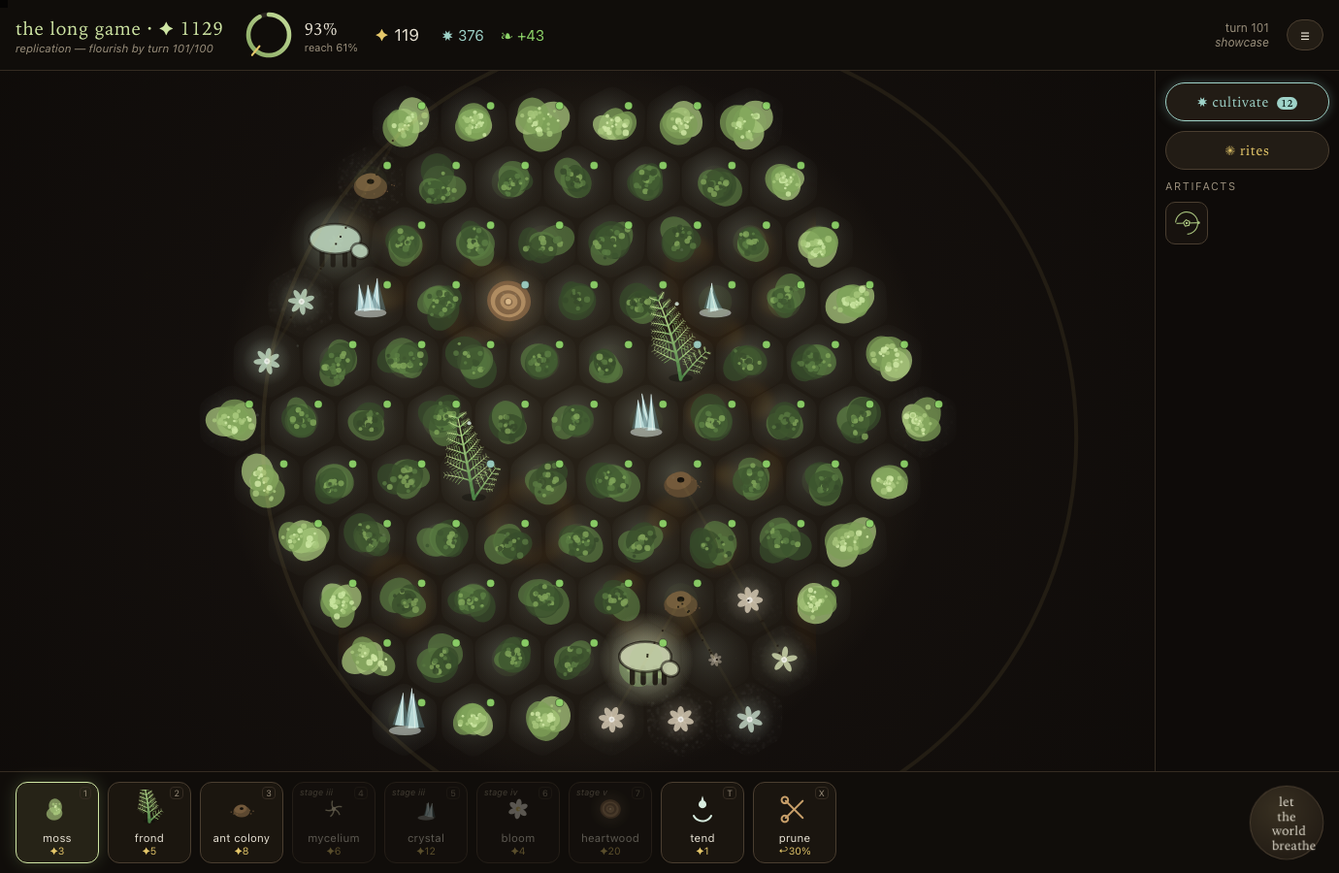
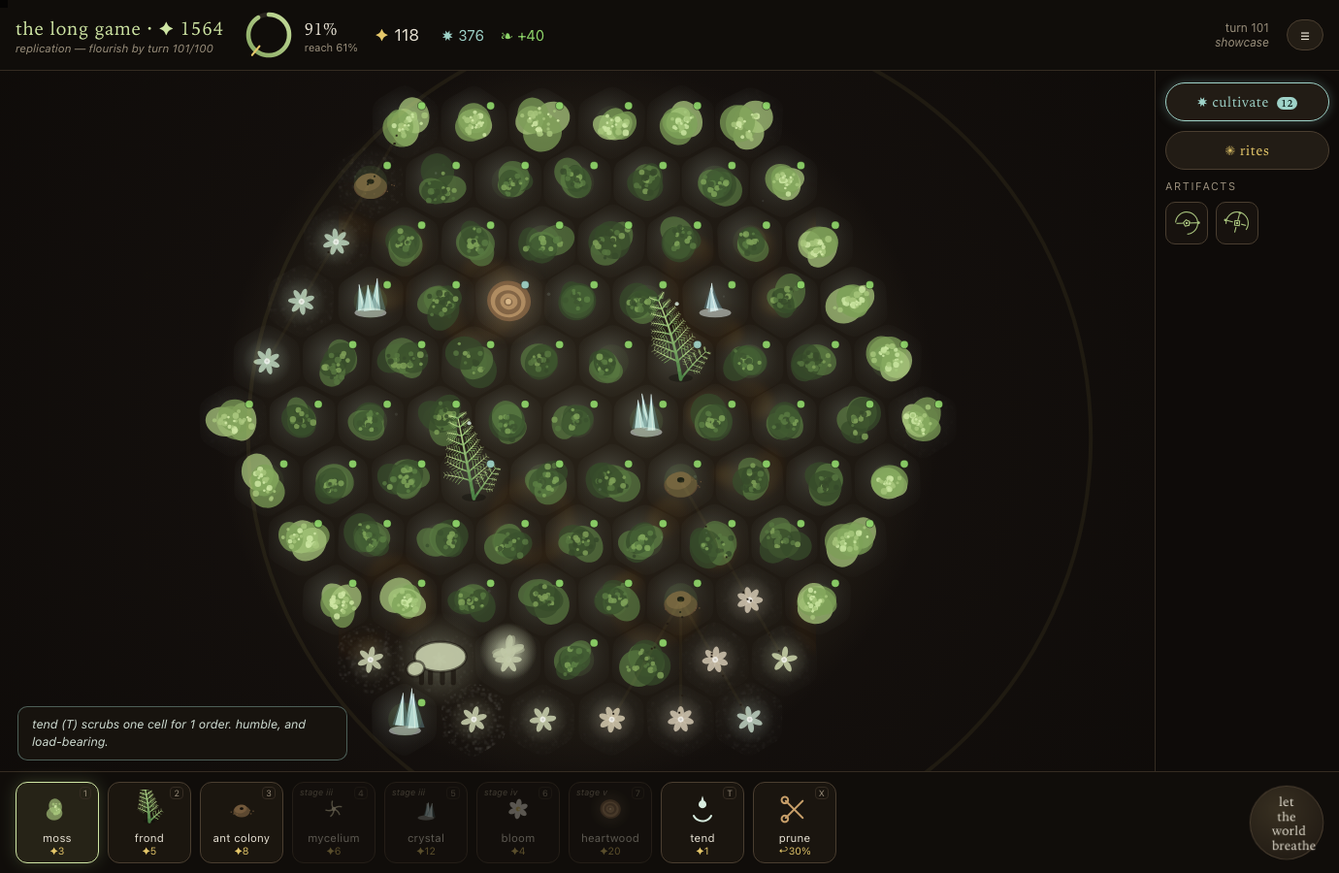
food web I: the pollinator — Margulis-first mutualism (+ prime directive)
The first slice of the food-web arc, grounded in the game's own murmur:
"life did not take over the globe by combat, but by networking" (Margulis).
So the web leads with the MUTUALIST, not the predator.

A meadow that grows both rich AND varied now summons, by succession, a
POLLINATOR (a consumer/grazer comes first; a pollinator network is the mature
meadow's reward). It sips nectar — never kills — and carries a flower's kind
into open ground. Positive-sum, measured: a pollinated meadow ends ~3.6x richer
in flora than the same world grazed. Nectar requires primary production (only a
FED flower makes it), so the mutualism is a powerful buffer yet still coupled to
the base. Pollinators render as airy luminous motes, the opposite of the heavy
grazer; arrival toast explains the relationship plainly.

Also rewrote the trophic-cascade test around the MEASURED three-part truth
(found via a long-run probe): pull the base and the meadow (1) RELAXES from its
subsidised bloom (Prigogine), (2) its whole flow-dependent web — metabolism AND
fauna — unwinds to zero (real coupling), (3) leaving a fossil scaffold of
niche-built beds on habitat-memory alone (hysteresis — a coral skeleton).

Invariants held: base garden 24/24 & fauna-free, deterministic (role survives
save/load), non-collapse. Harness 39 PASS. New guards lock in pollinator
emergence + positive-sum mutualism. Prime-directive manifesto + closure probe
added as the loop's compass and an investigation tool.

diff --git a/loophole/js/core.js b/loophole/js/core.js
@@ -113,6 +113,11 @@
      flower at a time (donor-controlled — no annihilation), the non-collapsing predator-prey
      of the foundations doc. fauna are mobile agents (a separate list), not rooted patterns. */
   const FAUNA_SUF = ['grazer', 'strider', 'aurochs', 'elk', 'roan', 'lumberer', 'browser', 'wallow', 'horn', 'pacer'];
+  /* a meadow rich AND varied enough summons not a consumer but a MUTUALIST — a pollinator that
+     feeds on nectar and, in the same visit, carries a flower's kind into open ground. Margulis:
+     "life did not take over the globe by combat, but by networking." the food web's positive-sum
+     half — these are airy, light names, never the heavy grazer ones. */
+  const FAUNA_POLLEN_SUF = ['drifter', 'sipper', 'flitter', 'mote', 'wisp', 'dancer', 'hummer', 'flutter'];
 
   /* ───────────────────────── game ───────────────────────── */
   class Game {
@@ -557,7 +562,7 @@
     /* ── megafauna: a rich meadow summons a beast that grazes it and depends on it ── */
     _fauna(ev) {
       if (this.mode !== 'longgame') return;
-      const FA_THRESH = 8, FA_SUSTAIN = 4, FA_SP_CAP = 4, FA_CAP = 8, STARVE = 14, BREED = 16, GRAZE_NEED = 4, REFUGE = 6;
+      const FA_THRESH = 8, FA_SUSTAIN = 4, FA_SP_CAP = 4, FA_CAP = 8, STARVE = 14, BREED = 16, GRAZE_NEED = 4, REFUGE = 6, FLORA_CAP = 60, POLLEN = 0.5;
       const floraCount = this._patternCells('flora').length; /* a refuge: beasts won't graze the meadow below this — the prey is never eaten to nothing */
       const estFlora = this._patternCells('flora').filter(c => c.pat.est);
       /* 1. a rich, diverse meadow (much established flora, ≥2 species) is a surplus of LIFE */
@@ -573,20 +578,41 @@
         f.age++; f.hunger++;
         let best = null, bestD = 1e9;
         for (const c of this._patternCells('flora')) {
-          const d = HEX.dist2(f.q, f.r, c.q, c.r) - (c.pat.sp === sp.diet ? 0.5 : 0);
+          const d = HEX.dist2(f.q, f.r, c.q, c.r) - (c.pat.sp === sp.diet ? 0.5 : 0) - (sp.role === 'pollinator' && c.pat.fedOk ? 0.6 : 0); /* a pollinator seeks nectar — a FED flower */
           if (d < bestD) { bestD = d; best = c; }
         }
         if (best && HEX.dist2(f.q, f.r, best.q, best.r) <= 1) {
-          /* at the meadow. it grazes only when HUNGRY — eats to satiety then rests — so the
-             meadow can keep up. one flower at a time (donor-controlled), no annihilation. */
-          if (f.hunger >= GRAZE_NEED && floraCount > REFUGE) {
-            this._killFlora(best); f.hunger = 0; f.fedRun = (f.fedRun || 0) + 1;
-            best.e = U.clamp(best.e + 0.05, 0, 1); /* droppings → humus, fertilising the cycle */
-            ev.push({ t: 'graze', k: HEX.key(best.q, best.r), color: sp.color });
-            if (f.fedRun >= BREED && this.fauna.length < FA_CAP) {
-              const bn = [...HEX.neighborsK(HEX.key(f.q, f.r))].filter(k => this.cells.has(k)).map(k => HEX.parse(k));
-              const bp = bn.length ? bn[this.rng.i(bn.length)] : [f.q, f.r]; /* the calf is born beside its parent, not on top of it */
-              this.fauna.push({ spId: f.spId, q: bp[0], r: bp[1], age: 0, hunger: 0, fedRun: 0 }); f.fedRun = 0; ev.push({ t: 'faunaBreed', k: HEX.key(f.q, f.r), color: sp.color });
+          if (sp.role === 'pollinator') {
+            /* a MUTUALIST (Margulis: "life took over by networking, not combat"): it sips nectar —
+               NEVER kills the flower — and in the same visit carries that flower's kind into open
+               ground. positive-sum: the meadow it feeds on grows BECAUSE of it. no prey refuge —
+               there is no prey. but NECTAR IS A PRODUCT OF PRIMARY PRODUCTION: only a FED flower
+               makes it, so the mutualism is a powerful buffer yet still, at the last, tied to the
+               base — pull every producer and the web unwinds with a long lag, not never. */
+            if (f.hunger >= GRAZE_NEED && best.pat.fedOk) {
+              f.hunger = 0; f.fedRun = (f.fedRun || 0) + 1;
+              best.e = U.clamp(best.e + 0.03, 0, 1); /* a lighter touch than a grazer's droppings */
+              const fsp = this.species.get(best.pat.sp);
+              if (fsp && floraCount < FLORA_CAP && this.rng.chance(POLLEN)) this._floraSpread(best, fsp, ev); /* pollination → a new flower of the kind it visited */
+              ev.push({ t: 'pollinate', k: HEX.key(best.q, best.r), color: sp.color });
+              if (f.fedRun >= BREED && this.fauna.length < FA_CAP) {
+                const bn = [...HEX.neighborsK(HEX.key(f.q, f.r))].filter(k => this.cells.has(k)).map(k => HEX.parse(k));
+                const bp = bn.length ? bn[this.rng.i(bn.length)] : [f.q, f.r];
+                this.fauna.push({ spId: f.spId, q: bp[0], r: bp[1], age: 0, hunger: 0, fedRun: 0 }); f.fedRun = 0; ev.push({ t: 'faunaBreed', k: HEX.key(f.q, f.r), color: sp.color });
+              }
+            }
+          } else {
+            /* a GRAZER: eats only when HUNGRY — to satiety then rests — so the meadow can keep up.
+               one flower at a time (donor-controlled), never below the prey REFUGE. no annihilation. */
+            if (f.hunger >= GRAZE_NEED && floraCount > REFUGE) {
+              this._killFlora(best); f.hunger = 0; f.fedRun = (f.fedRun || 0) + 1;
+              best.e = U.clamp(best.e + 0.05, 0, 1); /* droppings → humus, fertilising the cycle */
+              ev.push({ t: 'graze', k: HEX.key(best.q, best.r), color: sp.color });
+              if (f.fedRun >= BREED && this.fauna.length < FA_CAP) {
+                const bn = [...HEX.neighborsK(HEX.key(f.q, f.r))].filter(k => this.cells.has(k)).map(k => HEX.parse(k));
+                const bp = bn.length ? bn[this.rng.i(bn.length)] : [f.q, f.r]; /* the calf is born beside its parent, not on top of it */
+                this.fauna.push({ spId: f.spId, q: bp[0], r: bp[1], age: 0, hunger: 0, fedRun: 0 }); f.fedRun = 0; ev.push({ t: 'faunaBreed', k: HEX.key(f.q, f.r), color: sp.color });
+              }
             }
           }
         } else if (best) {
@@ -618,12 +644,20 @@
       for (const s in count) if (count[s] > mx) { mx = count[s]; dietSp = +s; }
       const floraSp = this.species.get(dietSp);
       const ch = floraSp ? floraSp.ch : 0;
-      const name = FLORA_PRE[ch][this.rng.i(FLORA_PRE[ch].length)] + FAUNA_SUF[this.rng.i(FAUNA_SUF.length)];
-      const sp = { id, diet: dietSp, ch, color: floraSp ? floraSp.color : '#d8c0a8', name, born: this.turn, seeded: true };
+      /* the ROLE follows ecological SUCCESSION: a CONSUMER (grazer) finds the easy biomass first,
+         but a pollinator NETWORK is the mark of a mature, varied meadow (Margulis: networking is
+         the advanced achievement, not the starting move). so the first beast is always a grazer,
+         and a mutualist arrives only once the meadow is both diverse (≥3 species) AND already has
+         a grazing layer — the variety it tends is something the meadow had to earn. */
+      const div = new Set(estFlora.map(c => c.pat.sp)).size;
+      const role = (div >= 3 && this.faunaSpecies.size >= 1) ? 'pollinator' : 'grazer';
+      const suf = role === 'pollinator' ? FAUNA_POLLEN_SUF : FAUNA_SUF;
+      const name = FLORA_PRE[ch][this.rng.i(FLORA_PRE[ch].length)] + suf[this.rng.i(suf.length)];
+      const sp = { id, diet: dietSp, ch, role, color: floraSp ? floraSp.color : '#d8c0a8', name, born: this.turn, seeded: true };
       this.faunaSpecies.set(id, sp);
       const spot = estFlora.find(c => c.pat.sp === dietSp) || estFlora[0];
       this.fauna.push({ spId: id, q: spot.q, r: spot.r, age: 0, hunger: 0, fedRun: 0 });
-      ev.push({ t: 'fauna', name, color: sp.color, k: HEX.key(spot.q, spot.r), eats: floraSp ? floraSp.name : 'wildflowers' });
+      ev.push({ t: 'fauna', name, role, color: sp.color, k: HEX.key(spot.q, spot.r), eats: floraSp ? floraSp.name : 'wildflowers' });
     }
     _stepToward(q, r, tq, tr, avoid) {
       let best = { q, r }, bestD = HEX.dist2(q, r, tq, tr);

diff --git a/loophole/test/harness.js b/loophole/test/harness.js
@@ -508,15 +508,52 @@ function main() {
     while (fgarden.over === false && fgarden.turn < 50) { if (fgarden.stage === 6 && fgarden.coalesceReady() && fgarden.beginCoalescence().ok) break; greedyTurn(fgarden); }
     ok(fgarden.fauna.length === 0 && fgarden.faunaSpecies.size === 0, 'base garden mode stays free of megafauna');
 
-    /* TROPHIC CASCADE & RESILIENCE: pull the base (every producer) and watch what's genuinely
-       COUPLED to the flow collapse — while what has built its own habitat endures. The pioneer
-       flora live turn-to-turn on the element surplus; with the surplus gone they die back and NO
-       new species can speciate (zero surplus → zero niches). The ecology shrinks to its core.
-       But an ESTABLISHED bed is a dissipative structure with memory: niche construction
-       (Holland / Odling-Smee) holds its own microclimate, and its excretion is a small
-       autocatalytic loop (Kauffman) — so the core, and the herd grazing it, show HYSTERESIS:
-       multiple stable states, the system remembers it was once rich. That resilience is a real
-       complex-systems property, not a decoration — so we report it rather than assert against it. */
+    /* THE FOOD WEB → MUTUALISM (Margulis: "life took over by networking, not combat"). A meadow
+       that grows both rich AND varied summons not only grazers (consumers) but POLLINATORS — a
+       mutualist that sips nectar without killing and carries a flower's kind into open ground.
+       Two claims: (1) both roles emerge by succession (consumer first, mutualist as the mature
+       meadow's reward); (2) the mutualism is POSITIVE-SUM — a pollinated meadow ends richer in
+       flora than the same world grazed, networking out-producing combat. */
+    {
+      const seedRoles = s => {
+        const g = new Game('web-' + s, { mode: 'longgame' });
+        cellsOf(g).filter(c => (Math.abs(c.q) + Math.abs(c.r) + Math.abs(c.q + c.r)) / 2 <= 6)
+          .forEach((c, i) => { if (i % 7 === 0) c.pat = g._mkPat('moss'); else if (i % 11 === 4) c.pat = g._mkPat('ant'); else if (i % 13 === 6) c.pat = g._mkPat('crys'); });
+        g._recompute();
+        for (let t = 0; t < 95 && !g.over; t++) { g.order += 12; g.endTurn(); }
+        return [...g.faunaSpecies.values()].map(sp => sp.role);
+      };
+      let pol = 0, grz = 0; const N = 10;
+      for (let s = 0; s < N; s++) { const r = seedRoles(s); if (r.includes('pollinator')) pol++; if (r.includes('grazer')) grz++; }
+      const mutual = forceRole => {
+        const g = new Game('web-mutual', { mode: 'longgame' });
+        cellsOf(g).filter(c => (Math.abs(c.q) + Math.abs(c.r) + Math.abs(c.q + c.r)) / 2 <= 6)
+          .forEach((c, i) => { if (i % 7 === 0) c.pat = g._mkPat('moss'); else if (i % 11 === 4) c.pat = g._mkPat('ant'); else if (i % 13 === 6) c.pat = g._mkPat('crys'); });
+        g._recompute();
+        const orig = g._speciateFauna.bind(g);
+        g._speciateFauna = (est, ev) => { orig(est, ev); for (const sp of g.faunaSpecies.values()) sp.role = forceRole; };
+        for (let t = 0; t < 120; t++) { g.over = false; g.turn = Math.min(g.turn, 90); g.order += 12; g.endTurn(); }
+        return cellsOf(g).filter(c => c.pat && c.pat.t === 'flora').length;
+      };
+      const polFlora = mutual('pollinator'), grzFlora = mutual('grazer');
+      console.log(`    food web: roles by succession — grazers ${grz}/${N}, pollinators ${pol}/${N} · positive-sum: pollinated meadow ${polFlora} flora vs grazed ${grzFlora}`);
+      ok(grz >= N - 1 && pol >= Math.ceil(N / 2), 'both roles emerge — a consumer first, a mutualist as the varied meadow earns it', `grazers ${grz}/${N}, pollinators ${pol}/${N}`);
+      ok(polFlora > grzFlora, 'mutualism is POSITIVE-SUM — networking out-produces combat (Margulis)', `pollinated ${polFlora} > grazed ${grzFlora} flora`);
+    }
+
+    /* TROPHIC CASCADE → the measured three-part truth. Pull the base (every producer) and:
+         1. RELAXATION (Prigogine): a brief bloom, then a long decline. The biomass the abiotic
+            base was SUBSIDISING is shed — flora falls well below its supported peak.
+         2. COUPLING: the entire FLOW-DEPENDENT web unwinds. With no production there is no food
+            and no nectar, so every FED flora and every beast (grazer and pollinator alike) dies
+            off — metabolism and fauna both reach ZERO. The living layer is genuinely coupled to
+            the base; it is not decoration.
+         3. HYSTERESIS: yet it does not all vanish. A small FOSSIL SCAFFOLD of established beds
+            persists on niche-construction MEMORY alone (Holland/Odling-Smee) — held above zero
+            for 175+ turns in the long probe (see _closure_probe.js) — like a coral skeleton after
+            the polyps. Habitat the life built, outliving the life. (An earlier all-pollinator
+            regime showed false autocatalytic closure; realistic grazer-first succession unwinds it.)
+       We must run PAST the long-game turn-100 end to watch this, so the probe neutralises it. */
     {
       const g = new Game('cascade-1', { mode: 'longgame' });
       const hd = c => (Math.abs(c.q) + Math.abs(c.r) + Math.abs(c.q + c.r)) / 2;
@@ -524,13 +561,18 @@ function main() {
       g._recompute();
       for (let t = 0; t < 85 && g.over === false; t++) { g.order += 12; g.endTurn(); }
       const floraB = cellsOf(g).filter(c => c.pat && c.pat.t === 'flora').length, faunaB = g.fauna.length, spB = g.species.size;
+      const floraN = () => cellsOf(g).filter(c => c.pat && c.pat.t === 'flora').length;
+      const fedN = () => cellsOf(g).filter(c => c.pat && c.pat.t === 'flora' && c.pat.fedOk).length;
+      const pump = n => { for (let t = 0; t < n; t++) { g.over = false; g.turn = Math.min(g.turn, 90); g.order += 12; g.endTurn(); } }; /* run past the turn-100 end to see the true long-run trend */
       for (const c of g.cells.values()) if (c.pat && (c.pat.t === 'moss' || c.pat.t === 'crys' || c.pat.t === 'ant')) c.pat = null; /* pull the base */
       g._recompute();
-      for (let t = 0; t < 65 && g.over === false; t++) { g.order += 12; g.endTurn(); }
-      const floraA = cellsOf(g).filter(c => c.pat && c.pat.t === 'flora').length, faunaA = g.fauna.length;
-      console.log(`    trophic cascade: pull the base → flora ${floraB}→${floraA} (the flow-dependent layer dies back), fauna ${faunaB}→${faunaA} & est. core endure — HYSTERESIS, the meadow remembers it was rich`);
+      pump(25); const floraPeak = floraN(); /* the overshoot bloom */
+      pump(200); const floraEnd = floraN(), fedEnd = fedN(), faunaEnd = g.fauna.length; /* the settled state */
+      console.log(`    trophic cascade: pull the base → bloom to ${floraPeak} flora, then RELAX to ${floraEnd} (Prigogine). the flow-dependent web fully unwinds — ${fedEnd} fed flora, ${faunaEnd} fauna — leaving a fossil scaffold of ${floraEnd} niche-built beds on habitat-memory alone (hysteresis). from ${floraB} pre-pull, fauna ${faunaB}`);
       ok(faunaB >= 1 && spB >= 1, 'the cascade test grew a real ecology first', `flora ${floraB} fauna ${faunaB} species ${spB}`);
-      ok(floraA < floraB, 'pull the producers and the flow-dependent flora collapse — that layer IS coupled to the base', `flora −${floraB - floraA}`);
+      ok(floraEnd < floraPeak * 0.7 && floraEnd < floraB, 'RELAXATION — pull the base and the subsidised biomass is shed (the meadow relaxes below its supported level)', `peak ${floraPeak} → settled ${floraEnd} (pre-pull ${floraB})`);
+      ok(fedEnd === 0 && faunaEnd === 0, 'COUPLING — the whole flow-dependent web (metabolism + fauna) unwinds to zero; the living layer IS coupled to the base', `fed ${fedEnd}, fauna ${faunaEnd}`);
+      ok(floraEnd >= 1, 'HYSTERESIS — a fossil scaffold of niche-built beds persists on habitat-memory alone (a coral skeleton after the polyps)', `${floraEnd} inert beds`);
     }
   }
 

diff --git a/loophole/js/render.js b/loophole/js/render.js
@@ -520,6 +520,7 @@
     _drawFauna(cx, f, sp) {
       const k = HEX.key(f.q, f.r), p = this.pos.get(k); if (!p) return;
       const col = (sp && sp.color) || '#d8c0a8';
+      if (sp && sp.role === 'pollinator') return this._drawPollinator(cx, p, f, col); /* a mutualist reads airy & luminous — the opposite of a heavy grazer */
       const s = this.s * 1.25, dir = (f.q + f.r) % 2 ? 1 : -1; /* megafauna are LARGE — bigger than any flower */
       cx.save();
       cx.translate(p.x, p.y); cx.scale(dir, 1);
@@ -533,6 +534,27 @@
       cx.beginPath(); cx.ellipse(-s * 0.02, -s * 0.06, s * 0.52, s * 0.30, 0, 0, TAU); cx.fill(); cx.stroke(); /* body, outlined to stand out */
       cx.beginPath(); cx.ellipse(s * 0.48, s * 0.18, s * 0.18, s * 0.15, 0.3, 0, TAU); cx.fill(); cx.stroke(); /* head, dipped to graze */
       cx.fillStyle = rgba('#fff', 0.5); cx.beginPath(); cx.arc(s * 0.52, s * 0.13, s * 0.03, 0, TAU); cx.fill(); /* eye */
+      cx.restore();
+    }
+
+    /* a pollinator — a small luminous mote that hovers ABOVE the meadow on shimmering wings, in
+       its diet's colour. light where the grazer is heavy; it spreads life rather than eating it. */
+    _drawPollinator(cx, p, f, col) {
+      const s = this.s * 0.9;
+      const ph = (((f.q * 5 + f.r * 3 + f.age * 2) % 16) / 16) * TAU; /* deterministic flutter phase from position+age (no RNG) */
+      cx.save();
+      cx.translate(p.x, p.y - s * 0.24); /* it floats, lifted off the ground */
+      const g = cx.createRadialGradient(0, 0, 0, 0, 0, s * 0.8);
+      g.addColorStop(0, rgba(col, 0.5)); g.addColorStop(0.5, rgba(col, 0.16)); g.addColorStop(1, rgba(col, 0));
+      cx.fillStyle = g; cx.beginPath(); cx.arc(0, 0, s * 0.8, 0, TAU); cx.fill(); /* luminous halo */
+      cx.fillStyle = rgba(col, 0.5); /* four shimmering wing-petals, fanned by the flutter phase */
+      for (let i = 0; i < 4; i++) {
+        cx.save(); cx.rotate((i / 4) * TAU + (i % 2 ? 0.22 : -0.22) + Math.sin(ph) * 0.12);
+        cx.beginPath(); cx.ellipse(s * 0.24, 0, s * 0.22, s * 0.10, 0, 0, TAU); cx.fill();
+        cx.restore();
+      }
+      cx.fillStyle = rgba('#fff', 0.85); cx.beginPath(); cx.arc(0, 0, s * 0.11, 0, TAU); cx.fill(); /* bright core */
+      cx.fillStyle = rgba(col, 0.95); cx.beginPath(); cx.arc(0, 0, s * 0.075, 0, TAU); cx.fill();
       cx.restore();
     }
 
@@ -1146,6 +1168,7 @@
           /* megafauna: a grand burst when a beast arrives, a little puff where it grazes/breeds */
           case 'fauna': if (e.k) { this.burst(e.k, e.color, 16, 2.1); this.ring(e.k, e.color, 0.9); } break;
           case 'graze': if (e.k) this.burst(e.k, e.color, 3, 0.55); break;
+          case 'pollinate': if (e.k) { this.burst(e.k, e.color, 4, 0.5); this.ring(e.k, e.color, 0.5); } break; /* a bright airy puff — life carried, not taken */
           case 'faunaBreed': if (e.k) this.burst(e.k, e.color, 5, 0.8); break;
           case 'cull': if (e.k) this.burst(e.k, PAL.greyDark, 6, 0.9); break;
           case 'demon': this.ring(e.k, PAL.gold, 0.9); this.burst(e.k, PAL.gold, 6, 1); break;

diff --git a/loophole/test/_closure_probe.js b/loophole/test/_closure_probe.js
@@ -1,0 +1,24 @@
+/* empirical probe: is a mature meadow's survival-after-base-pull genuine metabolic CLOSURE
+   (autocatalytic, Kauffman) or just a long dissipative LAG (Prigogine)? grow it, pull every
+   producer, then run 300 turns and watch flora/fauna/fed-flora decay. closure → it plateaus
+   above zero forever; lag → it bleeds to ~0. this answers how to frame the cascade test. */
+const { Game } = require('../js/core.js');
+require('../js/content.js');
+const cellsOf = g => [...g.cells.values()];
+const g = new Game('cascade-1', { mode: 'longgame' });
+const hd = c => (Math.abs(c.q) + Math.abs(c.r) + Math.abs(c.q + c.r)) / 2;
+cellsOf(g).filter(c => hd(c) <= 7).sort((c, d) => (c.q - d.q) || (c.r - d.r)).forEach((c, i) => { if (i % 9 === 0) c.pat = g._mkPat('moss'); else if (i % 9 === 3) c.pat = g._mkPat('ant'); else if (i % 17 === 5) c.pat = g._mkPat('crys'); });
+g._recompute();
+for (let t = 0; t < 85 && g.over === false; t++) { g.order += 12; g.endTurn(); }
+const flora = () => cellsOf(g).filter(c => c.pat && c.pat.t === 'flora');
+const fed = () => flora().filter(c => c.pat.fedOk).length;
+const roles = () => { const r = {}; for (const f of g.fauna) { const sp = g.faunaSpecies.get(f.spId); const k = sp ? sp.role : '?'; r[k] = (r[k] || 0) + 1; } return JSON.stringify(r); };
+console.log(`before pull:  flora=${flora().length} fed=${fed()} fauna=${g.fauna.length} ${roles()}`);
+for (const c of g.cells.values()) if (c.pat && (c.pat.t === 'moss' || c.pat.t === 'crys' || c.pat.t === 'ant')) c.pat = null;
+g._recompute();
+for (let t = 1; t <= 300; t++) {
+  g.over = false; g.turn = Math.min(g.turn, 90); /* neutralise the turn-100 long-game end so we can watch the true long-run trend */
+  g.order += 12; g.endTurn();
+  if (t % 25 === 0) console.log(`  +${String(t).padStart(3)} turns:  flora=${String(flora().length).padStart(2)} fed=${String(fed()).padStart(2)} fauna=${g.fauna.length} ${roles()}`);
+}
+console.log(`closure verdict: ${fed() > 0 ? 'FED FLORA PERSIST → autocatalytic closure (life cross-feeds, base-independent)' : 'fed flora → 0 → it was a lag, the web unwinds'}`);

diff --git a/loophole/js/ui.js b/loophole/js/ui.js
@@ -730,7 +730,10 @@
         case 'cull': toast('you clear « ' + e.name + ' » — the ground opens again.', '', 3000); break;
         /* megafauna — a beast no one made, summoned by a meadow rich enough to feed it */
         case 'fauna':
-          toast('a <b>beast</b> walks into the world — « <b style="color:' + e.color + '">' + e.name + '</b> », drawn by a meadow rich enough to feed it. it grazes the ' + e.eats + ' and lives only while the meadow does.', 'good', 8500);
+          if (e.role === 'pollinator')
+            toast('a <b>pollinator</b> drifts in — « <b style="color:' + e.color + '">' + e.name + '</b> » — drawn by a meadow varied enough to need one. it sips the ' + e.eats + ' and carries its kind into open ground: it <b>spreads</b> life rather than eating it. a mutualist — the meadow grows richer for it.', 'good', 9000);
+          else
+            toast('a <b>beast</b> walks into the world — « <b style="color:' + e.color + '">' + e.name + '</b> », drawn by a meadow rich enough to feed it. it grazes the ' + e.eats + ' and lives only while the meadow does.', 'good', 8500);
           AU.beast();
           { const fl = meta.fauna || (meta.fauna = []);
             if (!fl.some(b => b.name === e.name && b.color === e.color)) { fl.push({ name: e.name, color: e.color, born: game ? game.turn : 0 }); save(); } }

diff --git a/docs/superpowers/specs/2026-06-19-loophole-prime-directive.md b/docs/superpowers/specs/2026-06-19-loophole-prime-directive.md
@@ -1,0 +1,98 @@
+# LOOPHOLE — the prime directive
+
+*This is the compass the 10-minute loop steers by. When a loop fire says "continue the prime
+directive," it means: run the method below, with full creative autonomy, in service of the telos.*
+
+---
+
+## the telos (why)
+
+We are building something that has never existed: a game where you do not build the machine or
+climb the tree — you tend the **conditions**, and life builds its own machine and grows its own
+tree, grounded in the actual mathematics of self-organization. The directive is to release a vision
+into the world in a way that lets **other minds follow the same path of pleasure / satisfaction /
+wonder**. It must start in the creator's mind first. That is all this ever was.
+
+## the method (the loop)
+
+Every time the loop fires — or any time I stop to wonder what to do next — run this, don't guess:
+
+```
+play  →  critique  →  research  →  distill  →  build  →  repeat
+```
+
+1. **play** — actually run the game (sim, harness, headless screenshot). Watch it as a system.
+2. **critique** — hold it against the titans. Not "is it fun" but *why* do their hooks work, and
+   what are we doing that they never could (see below). Be a designer, not a fan.
+3. **research** — go deep into the complexity/Gaia canon and the authors behind the murmurs
+   (the reading list below). Find weird rabbit holes. Follow what *I* am genuinely drawn to.
+4. **distill** — extract one transferable nugget: a principle that can become a mechanic.
+5. **build** — ship one safe, verified, witnessable increment that embodies the nugget.
+6. **repeat** — commit + push, then the next fire picks up.
+
+**Invariants that never bend** (the sacred constraints): base "garden" game stays **24/24** and
+fauna-free · everything **deterministic** (one seeded RNG) · zero deps, runs from `file://` ·
+non-collapse (no Lotka-Volterra crashes — donor-control, satiety, refuges) · verify before any
+completion claim · commit + push every increment · lowercase serif voice · real, accurate science.
+
+## the critique (standing on the titans of the late 20th century)
+
+- **Factorio** — the hook is the **second-order machine**: you don't place outputs, you place the
+  *processes* that make them, then watch a system you designed run itself. Pleasure = legible
+  mechanism (every belt traceable) + autocatalytic growth ("the factory must grow") + biters as a
+  clock. But *all* its emergence is authored by the player — nothing surprises the designer.
+- **Civ** — the hook is **compounding path-dependence**: a tech tree of irreversible unlocks, "one
+  more turn," early choices echoing into an empire. History as a ratchet. But the tree is authored
+  by Firaxis; you climb it, you don't grow it.
+- **SimCity** — the hook is **indirect stewardship**: you never command a citizen, you shape
+  conditions (zoning, roads, taxes) and the city self-organizes, with legible emergent failure
+  (traffic, crime, pollution) as feedback. Our closest cousin. But its agents are dumb and its
+  aliveness is hand-tuned to *feel* alive.
+
+**What LOOPHOLE does that none of them can:** SimCity's indirect stewardship + Factorio's
+legible-autocatalytic mechanism + Civ's compounding emergent progression — but the subject is
+**Gaia**, and the rules aren't tuned to fake aliveness, they *are* the mathematics that makes
+aliveness happen (Holland's CAS, Kauffman's NK & autocatalytic sets, Prigogine's dissipative
+structures, Margulis's symbiogenesis, Wolfram's class-4). You don't build the machine — you garden
+an **autonomy you don't fully control**, and life authors its own tech tree by climbing trophic
+levels, and occasionally **merges** into something neither you nor it planned. The titans give you
+*mastery over a system*. LOOPHOLE gives the humbler, stranger pleasure of being a gardener of a
+life that writes itself — "a pollinator and a plant having a relationship even if they don't know
+it." The Gaian sublime, made playable.
+
+## the reading list (the authors behind the murmurs — the research substrate)
+
+Already canonized in the game's own murmur anthology, and the standing well to draw mechanics from:
+
+- **Lynn Margulis & Dorion Sagan** — *Microcosmos* — "life did not take over the globe by combat,
+  but by networking." **Symbiogenesis**: major evolutionary leaps came from merger/mutualism, not
+  competition. → the food-web arc leads with the *pollinator*, and its endgame is *species merging*.
+- **Stuart Kauffman** — autocatalytic sets, NK fitness landscapes, "order for free," the adjacent
+  possible. → speciation, the excretion food-web loop, "variability × dependency = emergence."
+- **John Holland** — complex adaptive systems, niche construction, tags & signals. → the diet
+  vectors, established beds engineering their habitat, the (future) tag-matched exchange primitive.
+- **Ilya Prigogine** — dissipative structures: order maintained by energy throughput. → flora/fauna
+  as flow-dependent; the hysteresis the cascade test found.
+- **Stephen Wolfram** — class-4 computation at the edge of chaos; computational irreducibility. →
+  "reproducible surprise," the `[emergence]` dashboard as an edge-of-chaos instrument.
+- **Philip Anderson** — "more is different" (emergence is real, not reducible).
+- **Schrödinger** (negentropy), **Boltzmann** (the struggle for entropy), **Eddington** (the second
+  law's supremacy), **Wiener** (patterns that perpetuate themselves), **Lewis Thomas** (the ant
+  colony as an idea), **Mandelbrot** (fractals), and the non-dual turn — **Watts, Dōgen, Whitman,
+  Thich Nhat Hanh** (the self as eddy; interbeing). → the game's voice and its closing turn inward.
+
+New rabbit holes to chase as the loop runs (research things *I* am drawn to): Robert Rosen
+(relational biology, (M,R)-systems, organizational closure) · Tyler Volk (*Gaia's Body*, metapatterns)
+· Howard Odum (energy systems / emergy) · Conway's Life lineage & Langton's λ · Eric Smith & Harold
+Morowitz (the thermodynamics of the origin of life) · Donella Meadows (leverage points in systems).
+
+## the active arc
+
+**The food web** (chosen 2026-06-19). Turn the food *chain* into a *web*, Margulis-first:
+1. **mutualism** — a pollinator beast that *spreads* flora as it visits (positive-sum; networking).
+2. **predation** — a culler that keeps a herd from overgrazing (donor-controlled, refuge-bounded).
+3. **symbiogenesis** — two species that co-occur and exchange long enough **merge** into a novel
+   compound species. The never-been-done feature. Margulis's actual radical claim, made playable.
+
+*Source of truth for what shipped: `2026-06-18-loophole-v04-as-built.md`. Memory: `loophole-roadmap`,
+`loophole-prime-directive`.*
